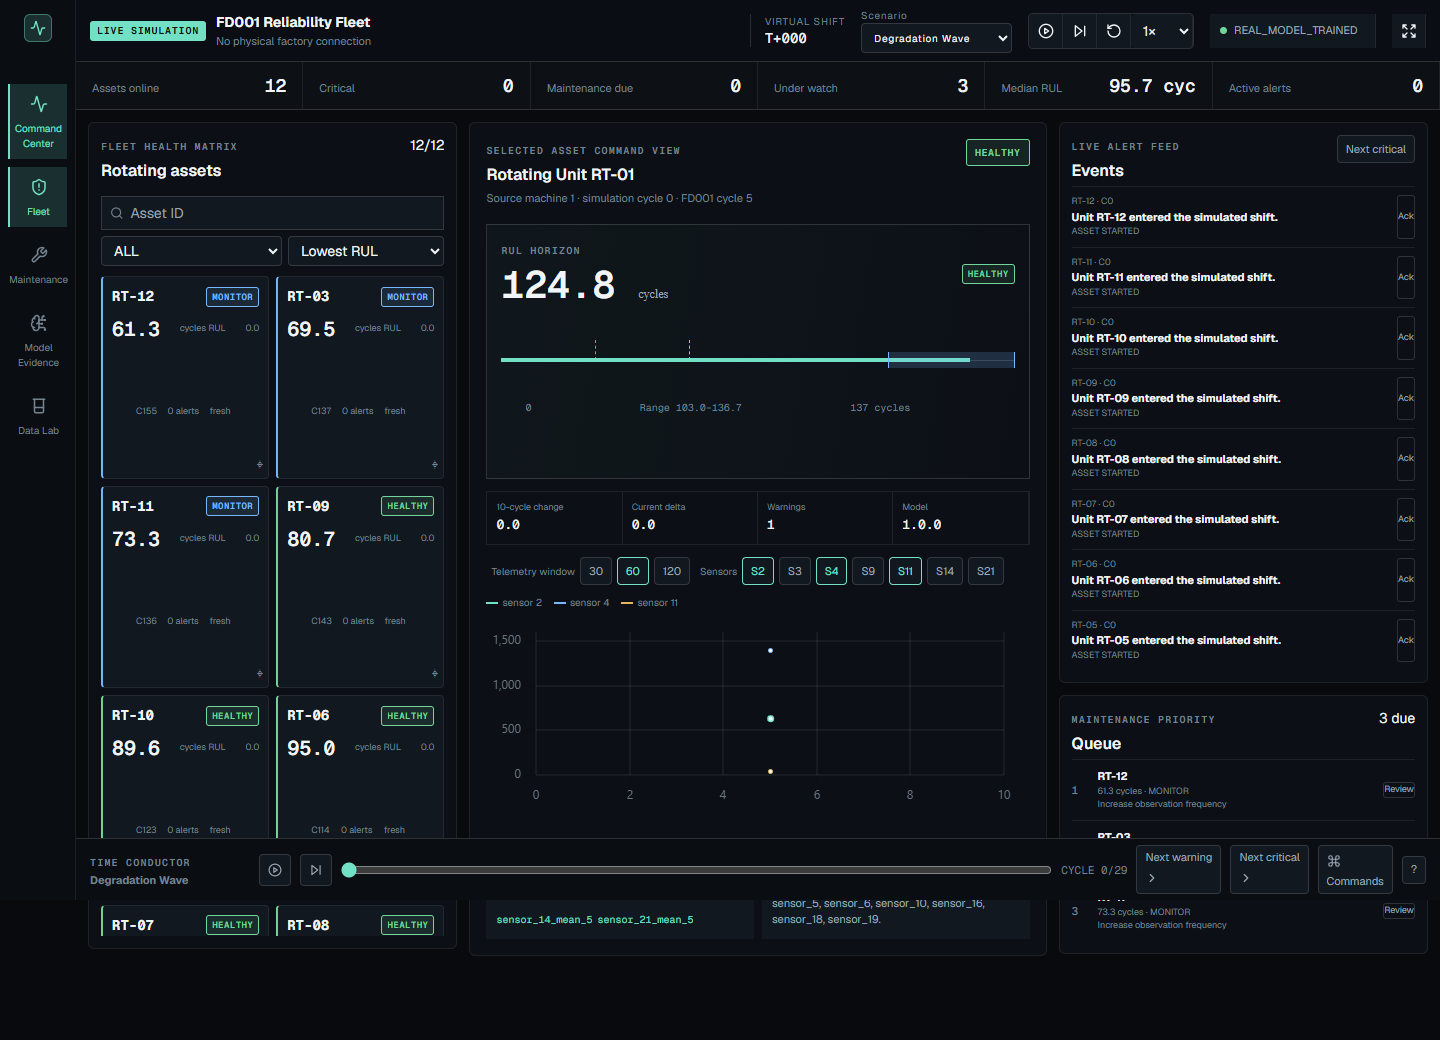
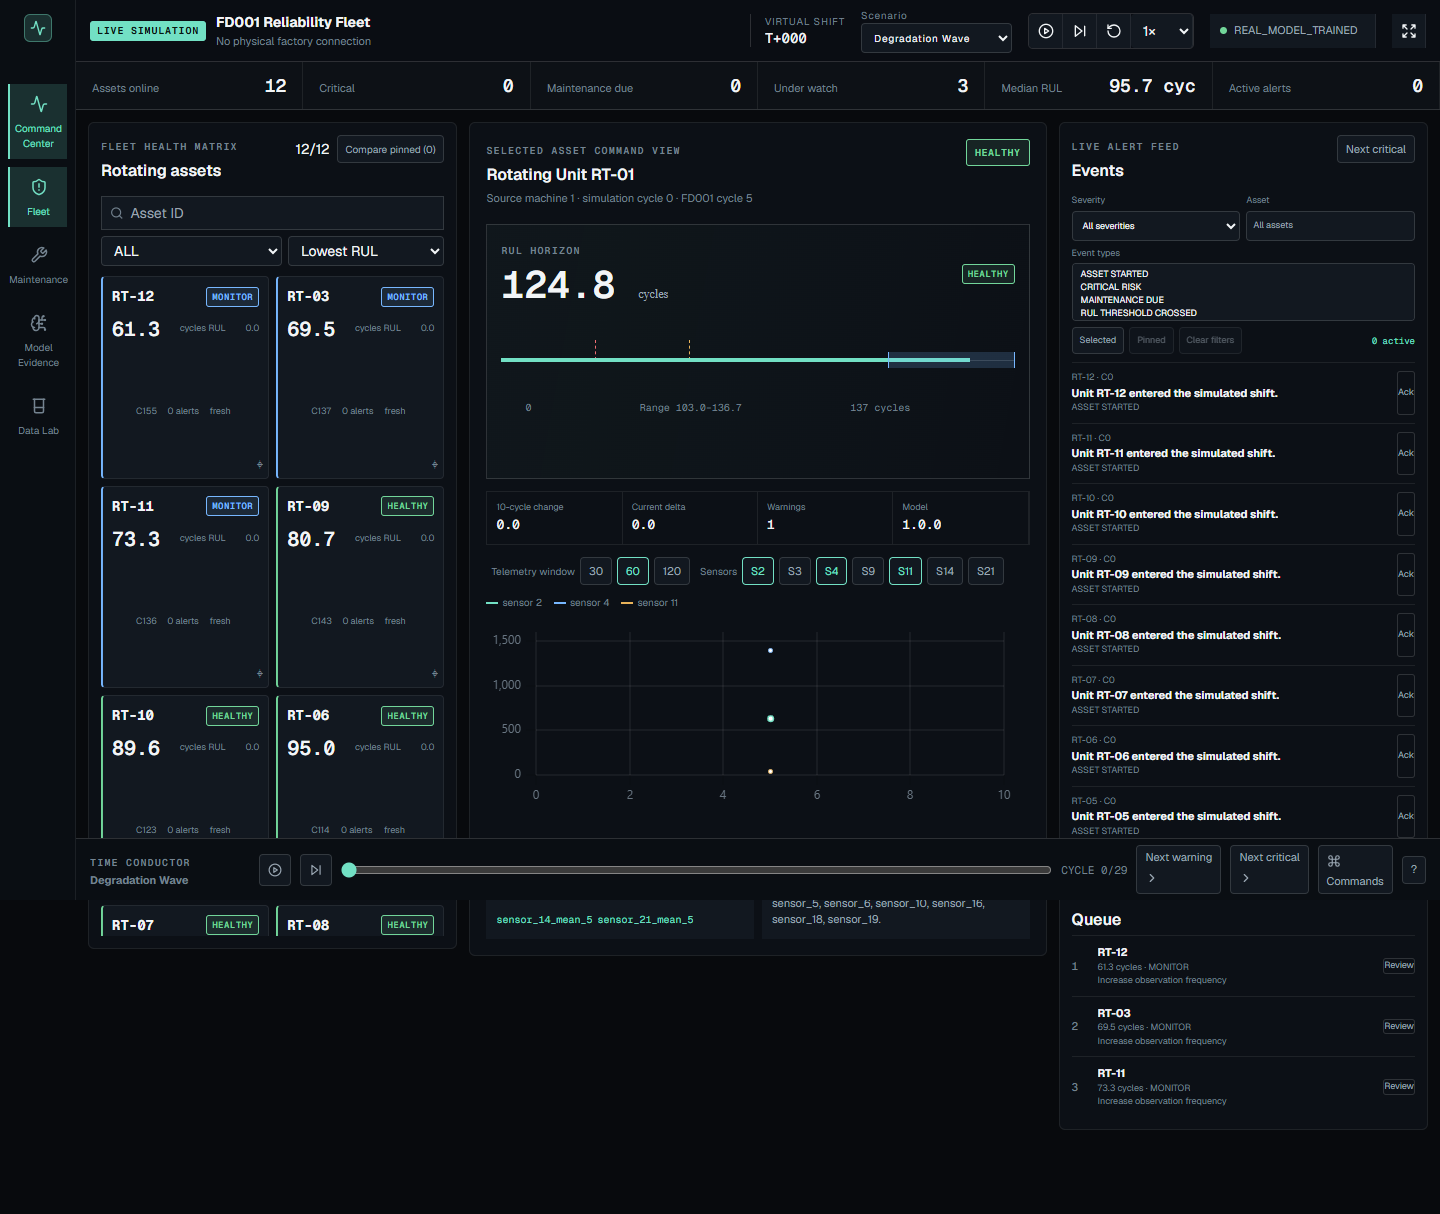
test: add alert and comparison regression coverage

diff --git a/web/e2e/visual.spec.ts b/web/e2e/visual.spec.ts
@@ -3,6 +3,7 @@ import { expect, test, type Page } from "@playwright/test";
 test.skip(({ browserName }) => browserName !== "chromium", "Deterministic visual baselines use Chromium");
 async function stable(page: Page) { await page.waitForLoadState("networkidle"); await page.evaluate(() => document.fonts.ready); await page.addStyleTag({ content: "*{caret-color:transparent!important}.telemetry-field{background-image:none!important}" }); }
 async function shot(page: Page, name: string) { await stable(page); await expect(page).toHaveScreenshot(name, { animations: "disabled", caret: "hide", fullPage: true, maxDiffPixelRatio: 0.001 }); }
+async function seek(page:Page,cycle:number){await page.getByLabel("Seek simulation cycle").fill(String(cycle));await expect(page.getByText(`CYCLE ${cycle}/29`)).toBeVisible()}
 
 for (const [name, scenario] of [["normal-shift", "normal-shift"], ["degradation-wave", "degradation-wave"], ["maintenance-window", "maintenance-window"]] as const) {
   test(`${name} overview`, async ({ page }) => { await page.setViewportSize({ width: 1440, height: 900 }); await page.goto("/"); await page.locator(".command-bar label select").selectOption(scenario); await shot(page, `${name}-overview.png`); });
@@ -15,7 +16,13 @@ for (const [name, edge] of [["healthy", "healthy"], ["warning", "plan_maintenanc
 test("paused command center", async ({ page }) => { await page.goto("/"); await shot(page, "paused-command-center.png"); });
 test("maintenance queue", async ({ page }) => { await page.goto("/maintenance"); await shot(page, "maintenance-queue.png"); });
 test("alert feed", async ({ page }) => { await page.goto("/"); await page.getByLabel("Seek simulation cycle").fill("29"); await shot(page, "alert-feed.png"); });
-test("asset comparison foundation", async ({ page }) => { await page.goto("/"); await page.locator(".pin").nth(0).click(); await page.locator(".pin").nth(1).click(); await shot(page, "asset-pins.png"); });
+test("one pinned asset", async ({ page }) => { await page.goto("/"); await page.locator(".pin").nth(0).click(); await shot(page, "one-pinned-asset.png"); });
+test("combined alert filters", async ({ page }) => { await page.goto("/"); await page.getByLabel("Seek simulation cycle").fill("29"); await page.getByLabel("Alert severity").selectOption("warning"); await page.getByLabel("Alert asset").fill("RT-12"); await page.getByLabel("Alert event types").selectOption(["MAINTENANCE_DUE"]); await shot(page, "alert-feed-combined-filters.png"); });
+test("empty alert filters", async ({ page }) => { await page.goto("/"); await page.getByLabel("Alert severity").selectOption("critical"); await shot(page, "alert-feed-empty-filtered.png"); });
+for (const count of [2,3]) test(`${count}-asset comparison`, async ({ page }) => { await page.goto("/"); await seek(page,29); for(let index=0;index<count;index+=1)await page.locator(".pin").nth(index).click(); await page.getByRole("button",{name:`Compare pinned (${count})`}).click(); await shot(page, `${count}-asset-comparison.png`); });
+test("critical asset comparison", async ({ page }) => { await page.goto("/"); await page.locator(".command-bar label select").selectOption("maintenance-window");await expect(page.locator(".time-conductor b")).toHaveText("Maintenance Window"); await seek(page,29); for(let index=0;index<3;index+=1)await page.locator(".fleet-tile.edge-critical .pin").nth(index).click(); await page.getByRole("button",{name:"Compare pinned (3)"}).click(); await shot(page,"critical-asset-comparison.png"); });
+for(const [name,width,height] of [["mobile",390,844],["tablet",820,1180]] as const)test(`${name} comparison`,async({page})=>{await page.setViewportSize({width,height});await page.goto("/");await seek(page,29);await page.locator(".pin").nth(0).click();await page.locator(".pin").nth(1).click();await page.getByRole("button",{name:"Compare pinned (2)"}).click();await shot(page,`${name}-comparison.png`)});
+test("reduced-motion comparison",async({page})=>{await page.emulateMedia({reducedMotion:"reduce"});await page.goto("/");await seek(page,29);await page.locator(".pin").nth(0).click();await page.locator(".pin").nth(1).click();await page.getByRole("button",{name:"Compare pinned (2)"}).click();await shot(page,"reduced-motion-comparison.png")});
 test("model evidence", async ({ page }) => { await page.goto("/model"); await shot(page, "model-evidence-command-center.png"); });
 test("Data Lab", async ({ page }) => { await page.goto("/lab"); await shot(page, "data-lab.png"); });
 test("mobile command center", async ({ page }) => { await page.setViewportSize({ width: 390, height: 844 }); await page.goto("/"); await shot(page, "mobile-command-center.png"); });

diff --git a/web/e2e/command-center.spec.ts b/web/e2e/command-center.spec.ts
@@ -37,3 +37,52 @@ test("mobile command center is usable without page overflow", async ({ page }) =
   await expect(page.getByRole("dialog", { name: "Application navigation" })).toBeVisible();
   await page.keyboard.press("Escape");
 });
+
+test("alert feed combines severity, asset, and event-type filters across simulation controls", async ({ page }) => {
+  await page.goto("/");
+  await page.getByLabel("Seek simulation cycle").fill("29");
+  await page.getByLabel("Alert severity").selectOption("warning");
+  await page.getByLabel("Alert asset").fill("RT-12");
+  await page.getByLabel("Alert event types").selectOption(["MAINTENANCE_DUE"]);
+  await expect(page.getByText("Unit RT-12 crossed the maintenance-planning threshold.")).toBeVisible();
+  await expect(page.locator(".alert-row")).toHaveCount(1);
+  await page.getByRole("button", { name: /Acknowledge RT-12/ }).click();
+  await expect(page.getByRole("button", { name: /Acknowledge RT-12/ })).toBeDisabled();
+  await page.locator(".time-conductor").getByRole("button", { name: "Play simulation" }).click();
+  await expect(page.locator(".alert-row")).toHaveCount(1);
+  await page.locator(".time-conductor").getByRole("button", { name: "Pause simulation" }).click();
+  await page.getByLabel("Seek simulation cycle").fill("0");
+  await expect(page.getByText("No events match the active filters.")).toBeVisible();
+  await page.getByRole("button", { name: "Reset alert filters" }).click();
+  await expect(page.getByLabel("0 active alert filters")).toBeVisible();
+  await page.getByLabel("Alert severity").selectOption("critical");
+  await page.locator(".command-bar label select").selectOption("degradation-wave");
+  await expect(page.getByLabel("0 active alert filters")).toBeVisible();
+  await expect(page.getByLabel("Alert severity")).toHaveValue("all");
+});
+
+test("pin limit and shared comparison journey remain synchronized", async ({ page }) => {
+  await page.goto("/");
+  const pins = page.getByRole("button", { name: /^Pin RT-/ });
+  await pins.nth(0).click();
+  await pins.nth(1).click();
+  await pins.nth(2).click();
+  await pins.nth(3).click();
+  await expect(page.getByRole("status").filter({ hasText: "Up to 3 assets can be compared" })).toHaveCount(1);
+  await page.getByRole("button", { name: "Compare pinned (3)" }).click();
+  await expect(page.getByRole("heading", { name: "Operational comparison" })).toBeFocused();
+  await expect(page.locator(".comparison-overview article")).toHaveCount(3);
+  await expect(page.locator(".rul-shared-row")).toHaveCount(3);
+  await page.getByRole("button", { name: "30 cycles" }).click();
+  await page.getByLabel("Selected comparison sensor").selectOption({ index: 1 });
+  const before = await page.getByText(/0\/29|1\/29/).first().textContent();
+  await page.getByRole("button", { name: "Play simulation" }).click();
+  await page.waitForTimeout(650);
+  await page.getByRole("button", { name: "Pause simulation" }).click();
+  await expect(page.getByText(before ?? "0/29", { exact: true })).toBeHidden();
+  await page.getByRole("button", { name: /^Remove RT-/ }).first().click();
+  await expect(page.locator(".comparison-overview article")).toHaveCount(2);
+  await page.getByRole("link", { name: /Investigate asset/ }).first().click();
+  await expect(page).toHaveURL(/\/asset\/RT-/);
+  await expect(page.getByText("SELECTED ASSET COMMAND VIEW")).toBeVisible();
+});

diff --git a/web/e2e/cross-browser.spec.ts b/web/e2e/cross-browser.spec.ts
@@ -9,11 +9,13 @@ test("critical command-center and secondary routes are cross-browser clean", asy
   await page.getByRole("button", { name: "Step one cycle" }).last().click();
   await page.locator(".fleet-main").nth(1).click();
   await expect(page.getByText("SELECTED ASSET COMMAND VIEW")).toBeVisible();
-  await page.goto("/maintenance");
+  await page.getByRole("link",{name:"Maintenance"}).click();
   await expect(page.getByRole("heading", { name: "Priority queue" })).toBeVisible();
-  await page.goto("/model");
+  await page.getByRole("link",{name:"Model Evidence"}).click();
   await expect(page.getByRole("heading", { level: 1 })).toContainText("Traceable performance");
-  await page.goto("/lab");
+  await expect(page.locator(".evidence-identity code")).not.toHaveText("Loading");
+  await page.waitForTimeout(500);
+  await page.getByRole("link",{name:"Data Lab"}).click();
   await expect(page.getByRole("heading", { level: 1 })).toContainText("External trajectory analysis");
   expect(failures, `${browserName} console/page failures`).toEqual([]);
 });
@@ -25,4 +27,22 @@ test("mobile navigation opens and closes by keyboard", async ({ page }) => {
   await expect(page.getByRole("dialog", { name: "Application navigation" })).toBeVisible();
   await page.keyboard.press("Escape");
   await expect(page.getByRole("dialog", { name: "Application navigation" })).toBeHidden();
+});
+
+test("accelerated replay, filters, comparison, and scenario cleanup stay cross-browser clean", async ({ page, browserName }) => {
+  const failures:string[]=[];page.on("console",message=>{if(message.type()==="error")failures.push(message.text())});page.on("pageerror",error=>failures.push(error.message));
+  await page.goto("/");
+  await page.getByLabel("Simulation speed").selectOption("20");
+  await page.getByLabel("Seek simulation cycle").fill("29");
+  await page.getByLabel("Alert severity").selectOption("warning");
+  await page.getByLabel("Alert asset").fill("RT-12");
+  await page.getByRole("button",{name:"Pin RT-01"}).click();await page.getByRole("button",{name:"Pin RT-02"}).click();
+  await page.getByRole("button",{name:"Compare pinned (2)"}).click();
+  await page.getByLabel("Seek comparison cycle").fill("10");
+  await page.getByLabel("Selected comparison sensor").selectOption({index:2});
+  await page.getByRole("combobox",{name:"Scenario",exact:true}).selectOption("degradation-wave");
+  await expect(page.locator(".comparison-overview article")).toHaveCount(2);
+  await page.getByRole("link",{name:"Return to fleet"}).click();
+  await expect(page.getByLabel("Alert severity")).toHaveValue("all");
+  expect(failures,`${browserName} comparison/filter failures`).toEqual([]);
 });

diff --git a/web/e2e/accessibility.spec.ts b/web/e2e/accessibility.spec.ts
@@ -4,3 +4,4 @@ test.skip(({browserName})=>browserName!=="chromium","Automated accessibility gat
 async function expectAccessible(page:Page){const results=await new AxeBuilder({page}).withTags(["wcag2a","wcag2aa","wcag21a","wcag21aa"]).analyze();expect(results.violations.filter(item=>item.impact==="critical"||item.impact==="serious")).toEqual([])}
 test("command center, Data Lab error, maintenance, and model evidence have no serious violations",async({page})=>{await page.goto("/");await expectAccessible(page);await page.goto("/lab");await expectAccessible(page);await page.getByLabel("Machine trajectory CSV").setInputFiles({name:"invalid.csv",mimeType:"text/csv",buffer:Buffer.from("machine_id,cycle\n1,1")});await page.getByRole("button",{name:"Validate trajectory"}).click();await expect(page.getByRole("alert")).toBeVisible();await expectAccessible(page);await page.goto("/maintenance");await expectAccessible(page);await page.goto("/model");await expectAccessible(page)});
 test("command center remains accessible at 200 percent text scale",async({page})=>{await page.goto("/");await page.addStyleTag({content:"html{font-size:200%!important}"});await expectAccessible(page);await expect(page.getByText("LIVE SIMULATION")).toBeVisible()});
+test("alert filters and pinned comparison have no serious violations",async({page})=>{await page.goto("/");await page.getByLabel("Alert severity").selectOption("warning");await page.getByLabel("Alert asset").fill("RT-01");await expectAccessible(page);await page.getByRole("button",{name:"Pin RT-01"}).click();await page.getByRole("button",{name:"Pin RT-02"}).click();await page.getByRole("button",{name:"Compare pinned (2)"}).click();await expect(page.getByRole("heading",{name:"Operational comparison"})).toBeFocused();await expectAccessible(page)});
